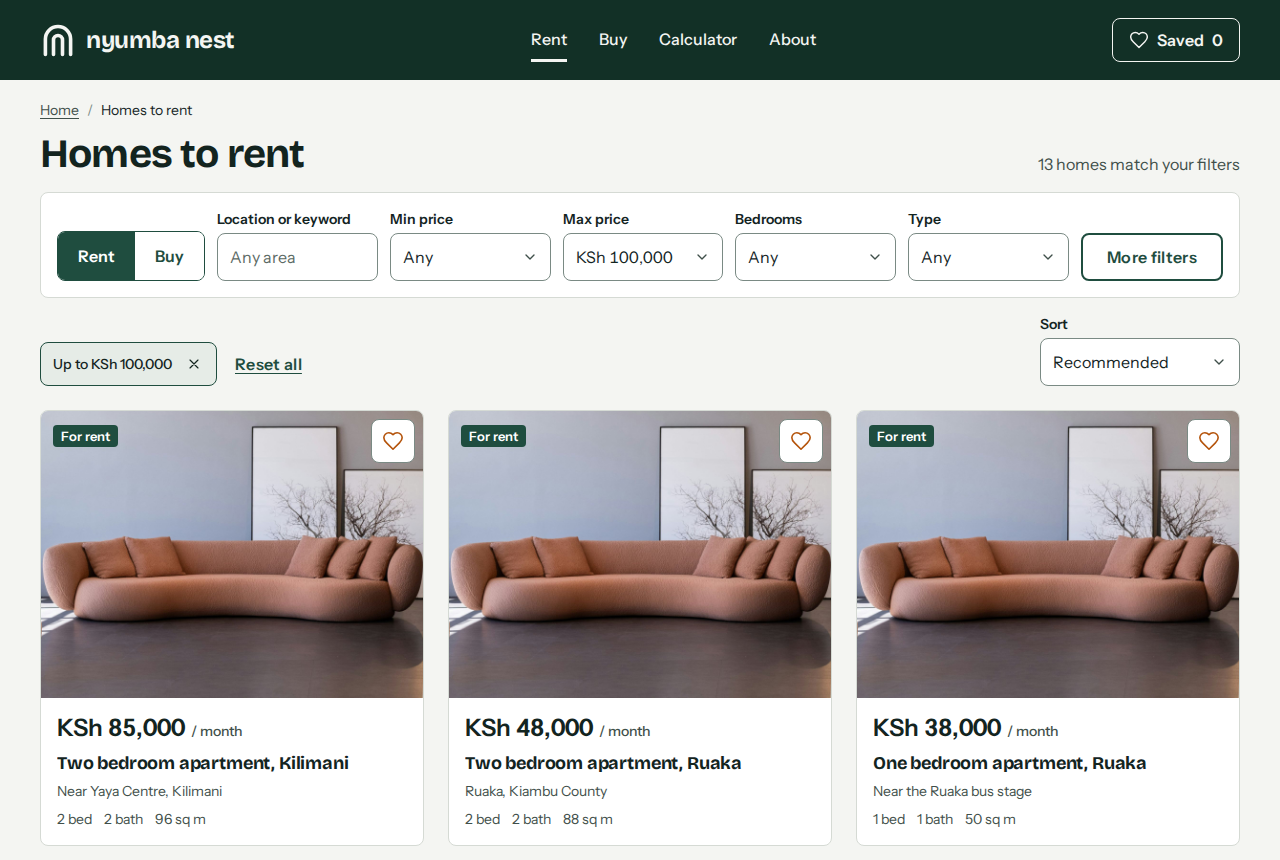
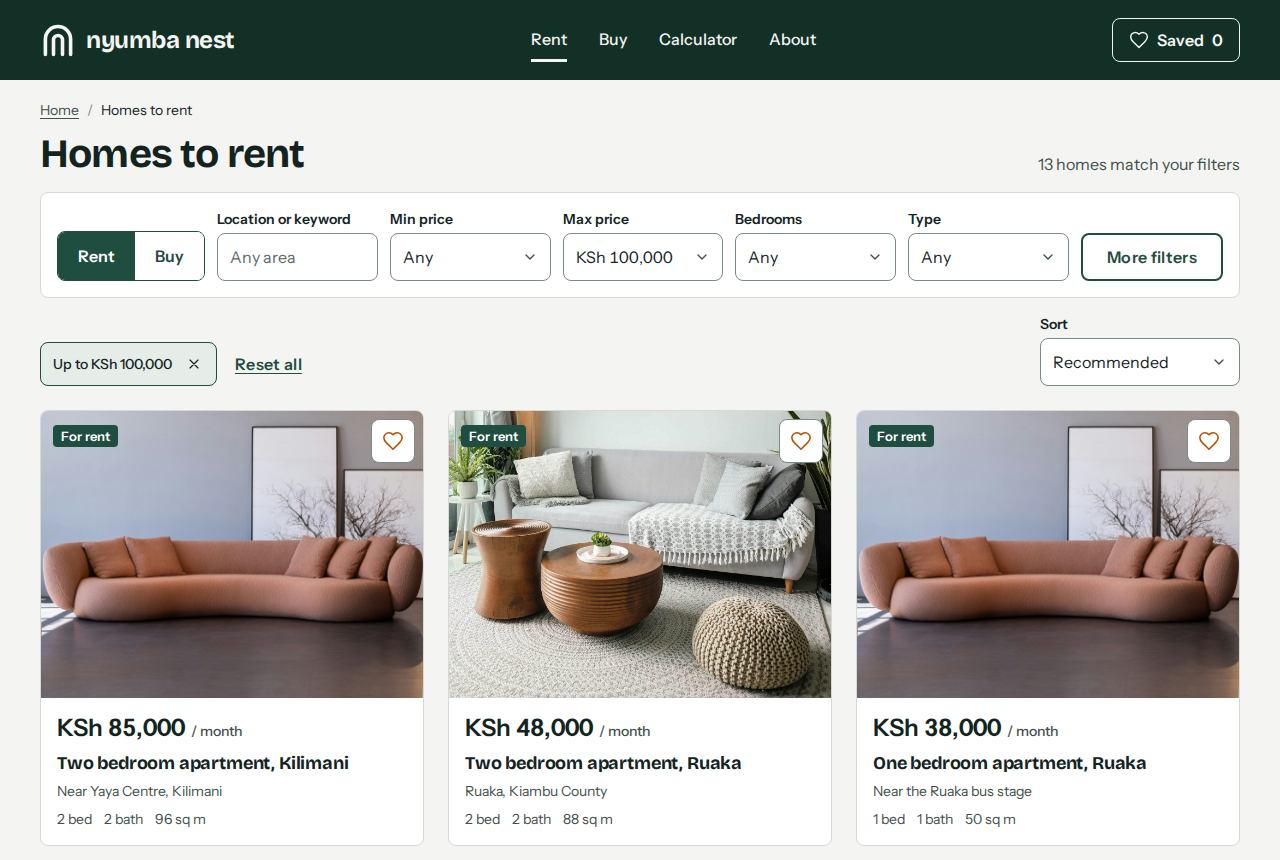
docs: update README and refresh screenshots

Changed region(s): [[0.3438, 0.4535, 0.6562, 0.8163]]

diff --git a/README.md b/README.md
@@ -35,7 +35,8 @@ A property discovery and viewing-enquiry frontend for a fictional Nairobi estate
 - Vite 8
 - Plain CSS with design tokens (CSS custom properties), no UI framework
 - `@fontsource-variable` for self-hosted Bricolage Grotesque and Instrument Sans
-- Vitest for unit tests of the filtering, calculator and contact logic
+- Vitest for unit tests of the filtering, calculator and contact logic, and ESLint with the React Hooks rules
+- GitHub Actions workflow that lints, tests and builds on every push
 
 There are no other runtime dependencies.
 
@@ -49,6 +50,8 @@ npm run dev        # start the dev server
 npm run build      # production build in dist/
 npm run preview    # serve the production build locally
 npm test           # run unit tests
+npm run lint       # run ESLint
+npm run images     # re-assign listing photos from public/images/listings/
 ```
 
 ### Configuration
@@ -66,7 +69,7 @@ export const agency = {
 ### Replacing placeholder photographs
 
 1. Download photos (for example from Unsplash) and export them as 4:3 JPEGs about 1600 by 1200 px, under 250 KB each.
-2. Save them in `public/images/listings/` named `<kind>-<number>.jpg`, for example `living-1.jpg`, `living-2.jpg`, `kitchen-1.jpg`. Kinds: living, kitchen, bedroom, bathroom, exterior, balcony, garden, view, pool.
+2. Save them in `public/images/listings/` named `<kind>-<number>.jpg`, for example `living-1.jpg`, `living-2.jpg`, `kitchen-1.jpg`. Kinds: living, kitchen, bedroom, bathroom, exterior, balcony, garden, view, pool. Add `-apt-` or `-house-` for outdoor kinds if you want them matched to the property type.
 3. Run `npm run images`. It points every listing image at your photos, spreading them so neighbouring listings differ. Kinds with no photos keep their placeholder.
 4. For the home page arch photo, change the `src` in `src/pages/Home.jsx` to one of your files, for example `images/listings/living-1.jpg`.
 5. Record each photographer in `docs/IMAGE_CREDITS.md`.
@@ -75,7 +78,11 @@ Cards use a 4:3 crop and the gallery a 3:2 crop. The wrapper owns the aspect rat
 
 ### Deployment
 
-The app uses client-side routing. Deploy to a host that serves `index.html` for unknown paths (Netlify, Vercel and Cloudflare Pages do; `public/_redirects` covers Netlify). On GitHub Pages, copy `index.html` to `404.html` after building and set `base` in `vite.config.js` to your repository name.
+**Vercel (recommended).** Push the repository to GitHub, then in Vercel choose "Add New Project", import the repository and accept the detected Vite settings (build command `npm run build`, output directory `dist`). `vercel.json` rewrites every path to `index.html`, so deep links such as `/properties/two-bedroom-apartment-kilimani` work after a refresh. No environment variables are needed.
+
+**Other hosts.** Any static host works if it serves `index.html` for unknown paths. On Netlify add a `public/_redirects` file containing `/*  /index.html  200`. On GitHub Pages copy `index.html` to `404.html` after building and set `base` in `vite.config.js` to your repository name.
+
+Before going live, replace the placeholder WhatsApp number and email in `src/config.js`, and consider adding an `og:image` (it needs an absolute URL, so it can only be set once you know your domain).
 
 ## Project structure
 
@@ -117,6 +124,6 @@ docs/screenshots/            README images
 ## Limitations and next steps
 
 - Photographs and listings are placeholders; no real inventory or backend exists.
-- Contrast ratios were calculated by hand and should be confirmed with an automated checker.
-- The layout was checked at 320, 390, 768, 1280 and 1440 px in a headless browser, but not on physical devices.
+- Accessibility was audited with axe-core (WCAG 2.2 AA rules) on every route and on the filter sheet, menu, photo viewer and form error states, with no remaining violations. Automated checks do not replace testing with a screen reader.
+- The layout was checked at 320, 390, 768, 1024, 1280, 1440 and 1920 px in a headless browser, but not on physical devices.
 - Future ideas: a real booking service, saved searches, side-by-side comparison, area pages and Swahili copy.
